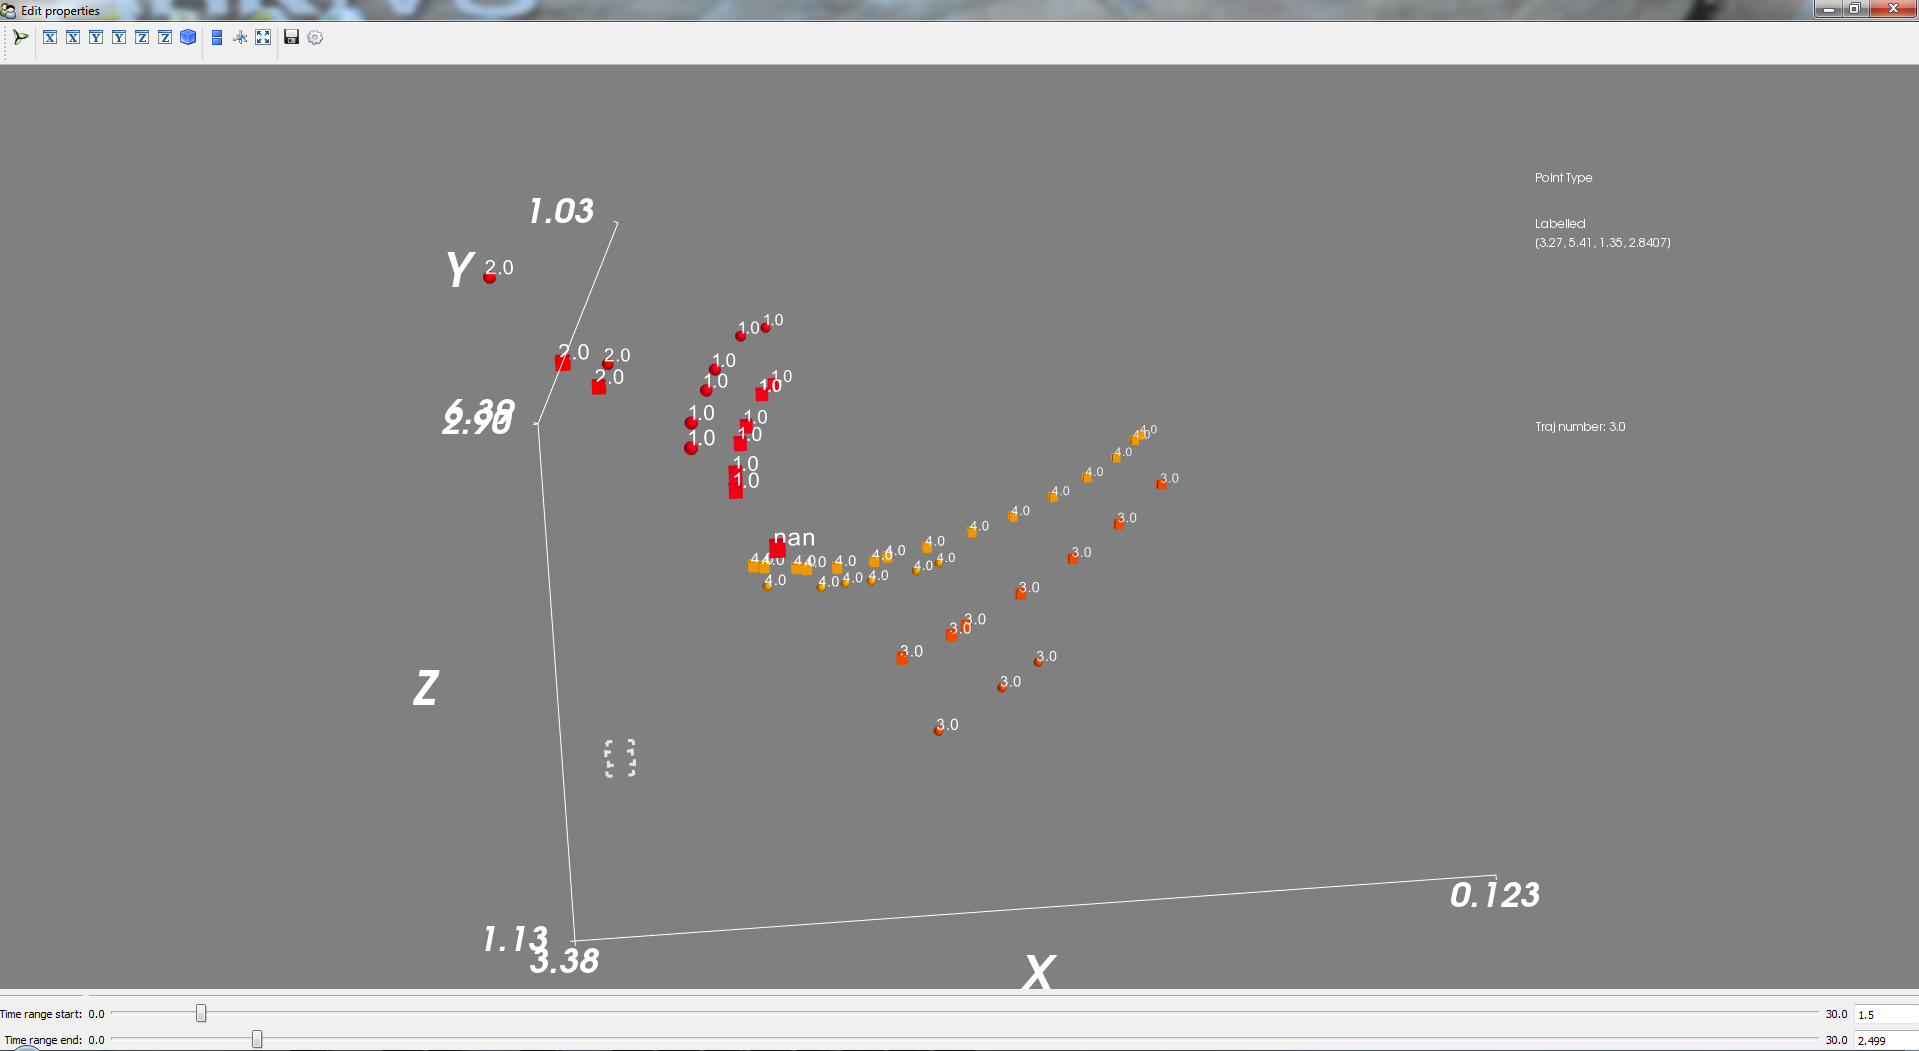
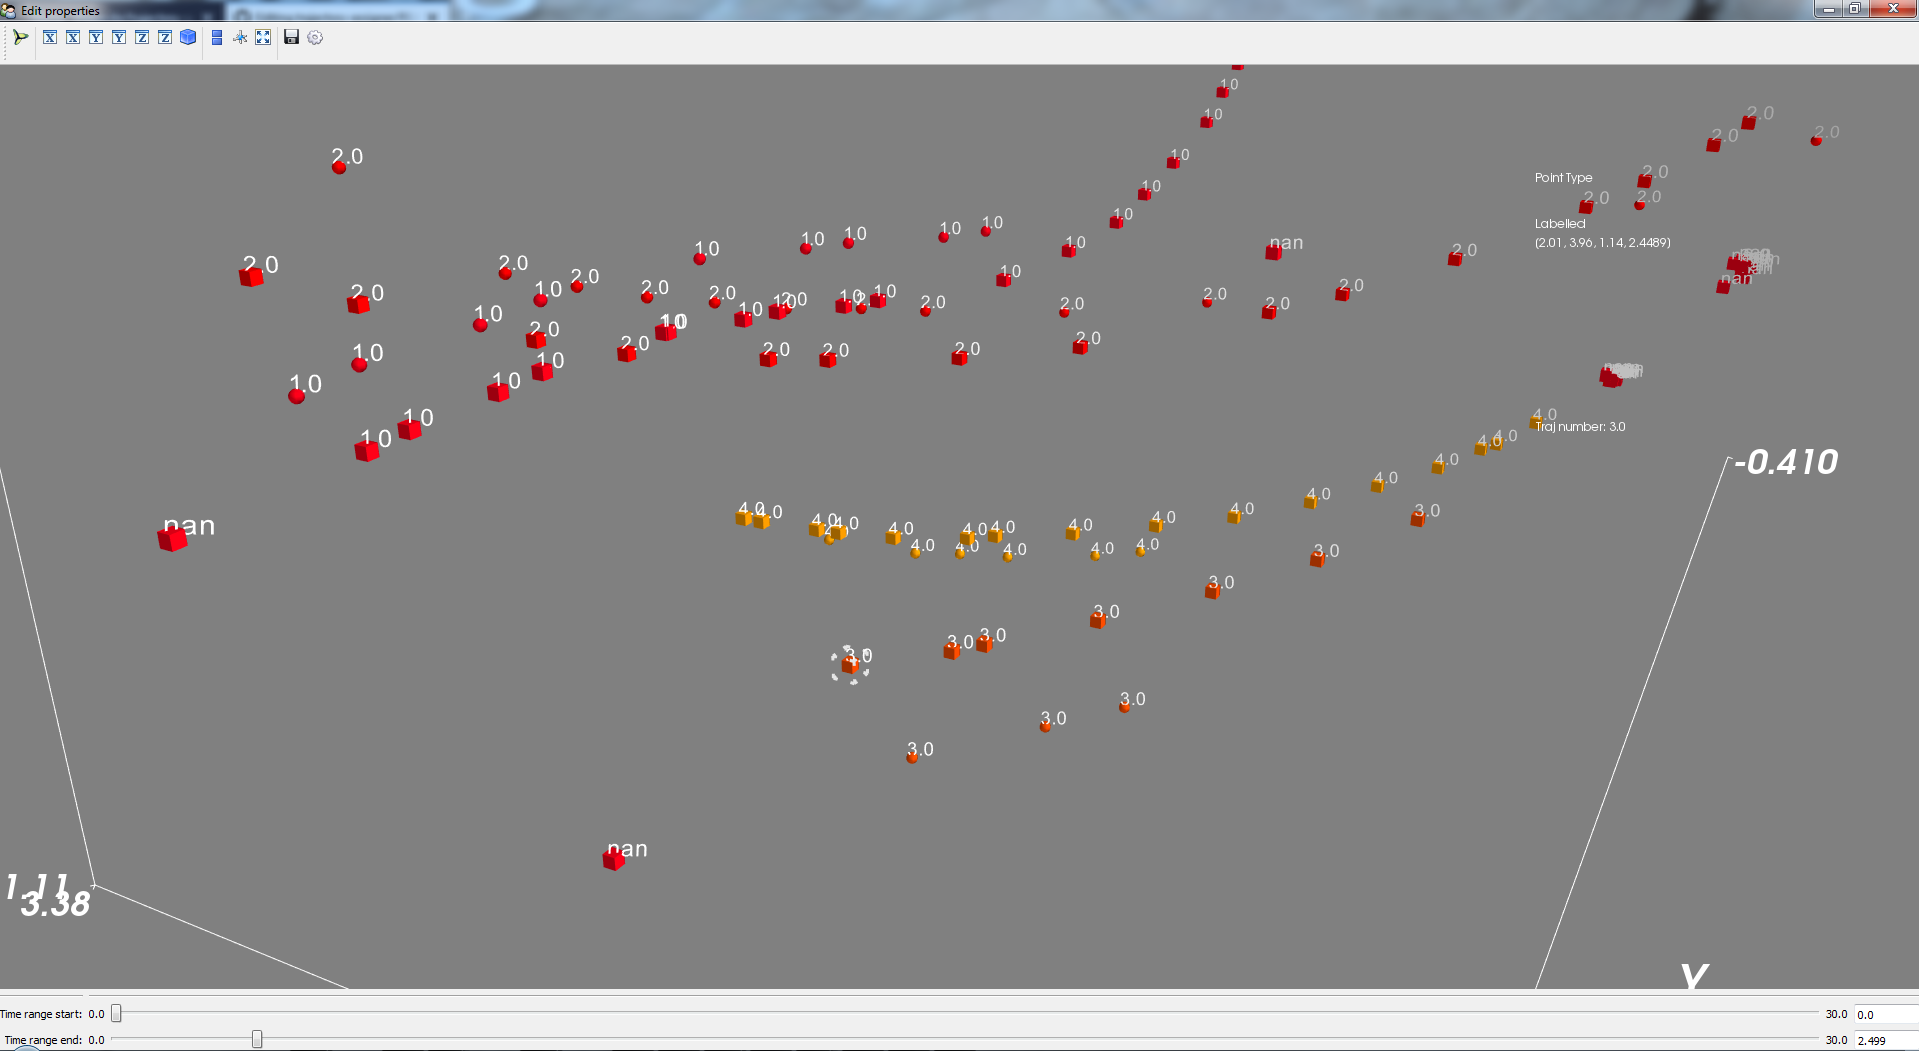
change screenshots

diff --git a/mayavi/tests_trajassigner.py b/mayavi/tests_trajassigner.py
@@ -177,7 +177,7 @@ if __name__ == '__main__':
     
     #test_missingxyz = testing_with_missingxyz()
     
-    #test_multitraj = testing_with_multipletrajectories()
+    test_multitraj = testing_with_multipletrajectories()
     
 
     
